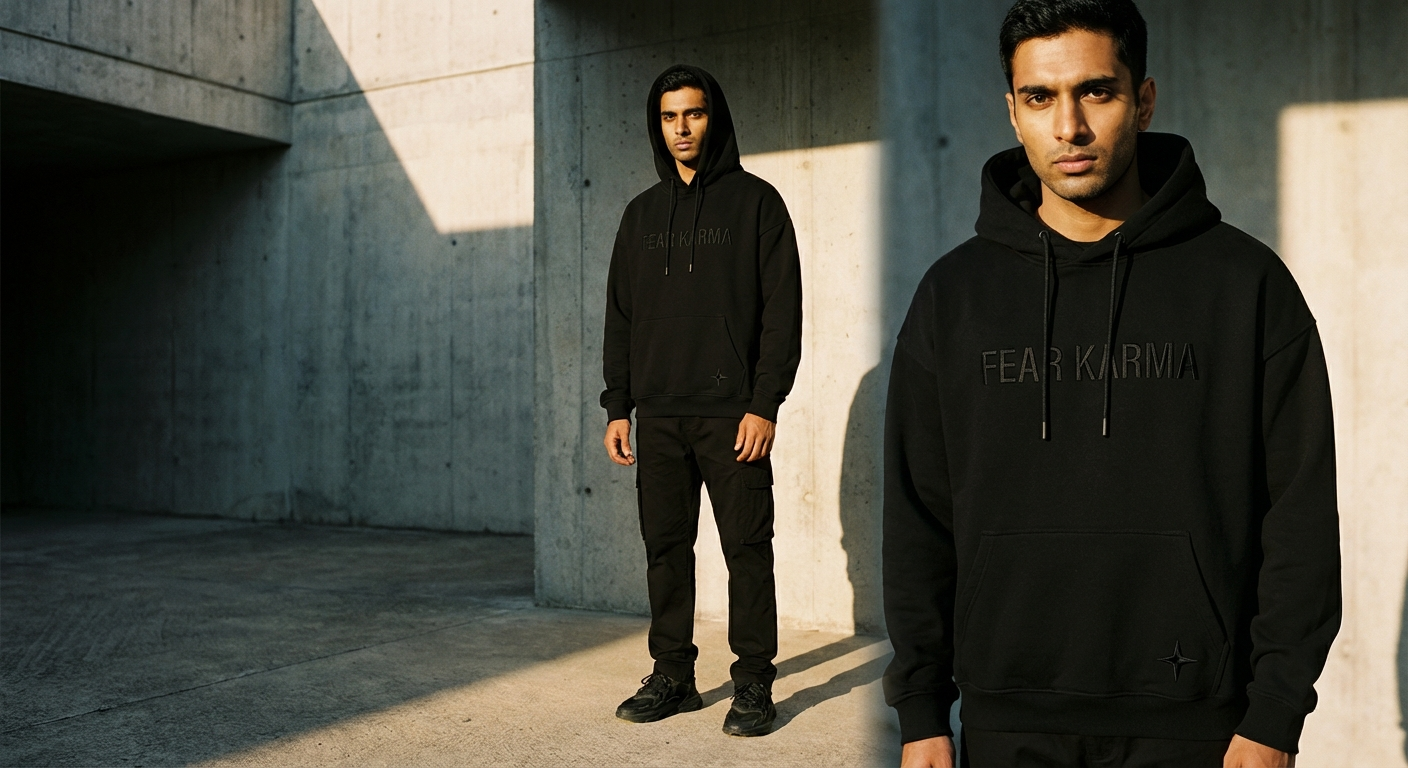
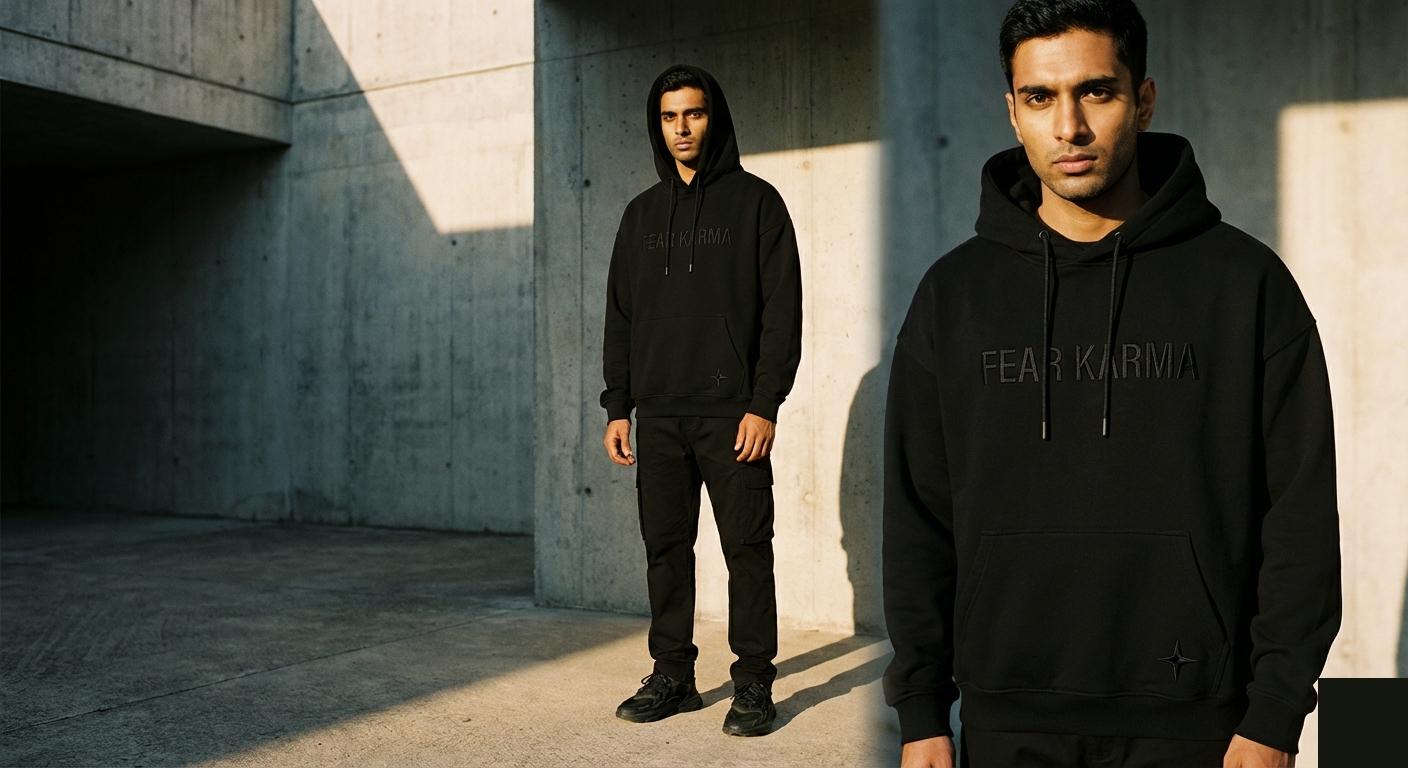
Remove Gemini watermarks, add 6th lookbook image, hover-to-video on lookbook items, fix grid to 3x2

Changed region(s): [[0.9375, 0.875, 1.0, 1.0]]

diff --git a/karma-ecommerce/index.html b/karma-ecommerce/index.html
@@ -132,33 +132,45 @@
         </div>
         <div class="lookbook-grid">
             <div class="lookbook-item" data-product="hoodie">
-                <img class="lookbook-video" src="images/fear-no-karma-hoodie.png" alt="Fear No Karma Hoodie" loading="lazy">
+                <img class="lookbook-video lookbook-poster" src="images/fear-no-karma-hoodie.png" alt="Fear No Karma Hoodie" loading="lazy">
+                <video class="lookbook-hover-video" src="videos/fear-no-karma.mp4" muted loop playsinline preload="none"></video>
                 <div class="lookbook-overlay">
                     <span class="lookbook-tag">Fear No Karma</span>
                 </div>
             </div>
             <div class="lookbook-item" data-product="hoodie">
-                <img class="lookbook-video" src="images/flex-karma-hoodie.png" alt="Flex Karma Hoodie" loading="lazy">
+                <img class="lookbook-video lookbook-poster" src="images/flex-karma-hoodie.png" alt="Flex Karma Hoodie" loading="lazy">
+                <video class="lookbook-hover-video" src="videos/flex-karma.mp4" muted loop playsinline preload="none"></video>
                 <div class="lookbook-overlay">
                     <span class="lookbook-tag">Flex Karma</span>
                 </div>
             </div>
             <div class="lookbook-item" data-product="hoodie">
-                <img class="lookbook-video" src="images/bad-karma-camo-hoodie.png" alt="Bad Karma Camo Hoodie" loading="lazy">
+                <img class="lookbook-video lookbook-poster" src="images/bad-karma-camo-hoodie.png" alt="Bad Karma Camo Hoodie" loading="lazy">
+                <video class="lookbook-hover-video" src="videos/bad-karma-camo.mp4" muted loop playsinline preload="none"></video>
                 <div class="lookbook-overlay">
                     <span class="lookbook-tag">Bad Karma</span>
                 </div>
             </div>
             <div class="lookbook-item" data-product="hoodie">
-                <img class="lookbook-video" src="images/fear-karma-hoodie.png" alt="Fear Karma Hoodie" loading="lazy">
+                <img class="lookbook-video lookbook-poster" src="images/fear-karma-hoodie.png" alt="Fear Karma Hoodie" loading="lazy">
+                <video class="lookbook-hover-video" src="videos/fear-karma.mp4" muted loop playsinline preload="none"></video>
                 <div class="lookbook-overlay">
                     <span class="lookbook-tag">Fear Karma</span>
                 </div>
             </div>
-            <div class="lookbook-item lookbook-item-wide" data-product="collection">
-                <img class="lookbook-video" src="images/what-goes-around-hoodie.png" alt="What Goes Around Comes Around" loading="lazy">
+            <div class="lookbook-item" data-product="collection">
+                <img class="lookbook-video lookbook-poster" src="images/what-goes-around-hoodie.png" alt="What Goes Around Comes Around" loading="lazy">
+                <video class="lookbook-hover-video" src="videos/what-goes-around.mp4" muted loop playsinline preload="none"></video>
                 <div class="lookbook-overlay">
-                    <span class="lookbook-tag">What Goes Around Comes Around</span>
+                    <span class="lookbook-tag">What Goes Around</span>
+                </div>
+            </div>
+            <div class="lookbook-item" data-product="tee">
+                <img class="lookbook-video lookbook-poster" src="images/coming-for-you-tee.png" alt="Coming For You Tee" loading="lazy">
+                <video class="lookbook-hover-video" src="videos/coming-for-you.mp4" muted loop playsinline preload="none"></video>
+                <div class="lookbook-overlay">
+                    <span class="lookbook-tag">Karma Is Coming For You</span>
                 </div>
             </div>
         </div>

diff --git a/karma-ecommerce/js/app.js b/karma-ecommerce/js/app.js
@@ -429,3 +429,39 @@
     document.addEventListener('DOMContentLoaded', init);
 
 })();
+
+// ============================================
+// Lookbook Hover-to-Video
+// ============================================
+document.addEventListener('DOMContentLoaded', function() {
+    const lookbookItems = document.querySelectorAll('.lookbook-item');
+    
+    lookbookItems.forEach(function(item) {
+        const video = item.querySelector('.lookbook-hover-video');
+        if (!video) return;
+        
+        item.addEventListener('mouseenter', function() {
+            video.currentTime = 0;
+            video.play().catch(function() {});
+            item.classList.add('is-playing');
+        });
+        
+        item.addEventListener('mouseleave', function() {
+            video.pause();
+            video.currentTime = 0;
+            item.classList.remove('is-playing');
+        });
+        
+        // Mobile: tap to play/pause
+        item.addEventListener('touchstart', function(e) {
+            if (item.classList.contains('is-playing')) {
+                video.pause();
+                item.classList.remove('is-playing');
+            } else {
+                video.currentTime = 0;
+                video.play().catch(function() {});
+                item.classList.add('is-playing');
+            }
+        }, { passive: true });
+    });
+});

diff --git a/karma-ecommerce/css/styles.css b/karma-ecommerce/css/styles.css
@@ -1195,3 +1195,52 @@ img, video {
         padding: 30px 20px;
     }
 }
+
+/* ============================================
+   Lookbook Hover-to-Video
+   ============================================ */
+.lookbook-item {
+    position: relative;
+    overflow: hidden;
+}
+
+.lookbook-poster {
+    transition: opacity 0.4s ease;
+}
+
+.lookbook-hover-video {
+    position: absolute;
+    top: 0;
+    left: 0;
+    width: 100%;
+    height: 100%;
+    object-fit: cover;
+    opacity: 0;
+    transition: opacity 0.4s ease;
+    pointer-events: none;
+}
+
+.lookbook-item:hover .lookbook-poster,
+.lookbook-item.is-playing .lookbook-poster {
+    opacity: 0;
+}
+
+.lookbook-item:hover .lookbook-hover-video,
+.lookbook-item.is-playing .lookbook-hover-video {
+    opacity: 1;
+}
+
+/* 6-item grid: 3 columns top, 3 columns bottom */
+.lookbook-grid {
+    grid-template-columns: repeat(3, 1fr) !important;
+}
+
+.lookbook-item-wide {
+    grid-column: span 1 !important;
+}
+
+@media (max-width: 768px) {
+    .lookbook-grid {
+        grid-template-columns: repeat(2, 1fr) !important;
+    }
+}
